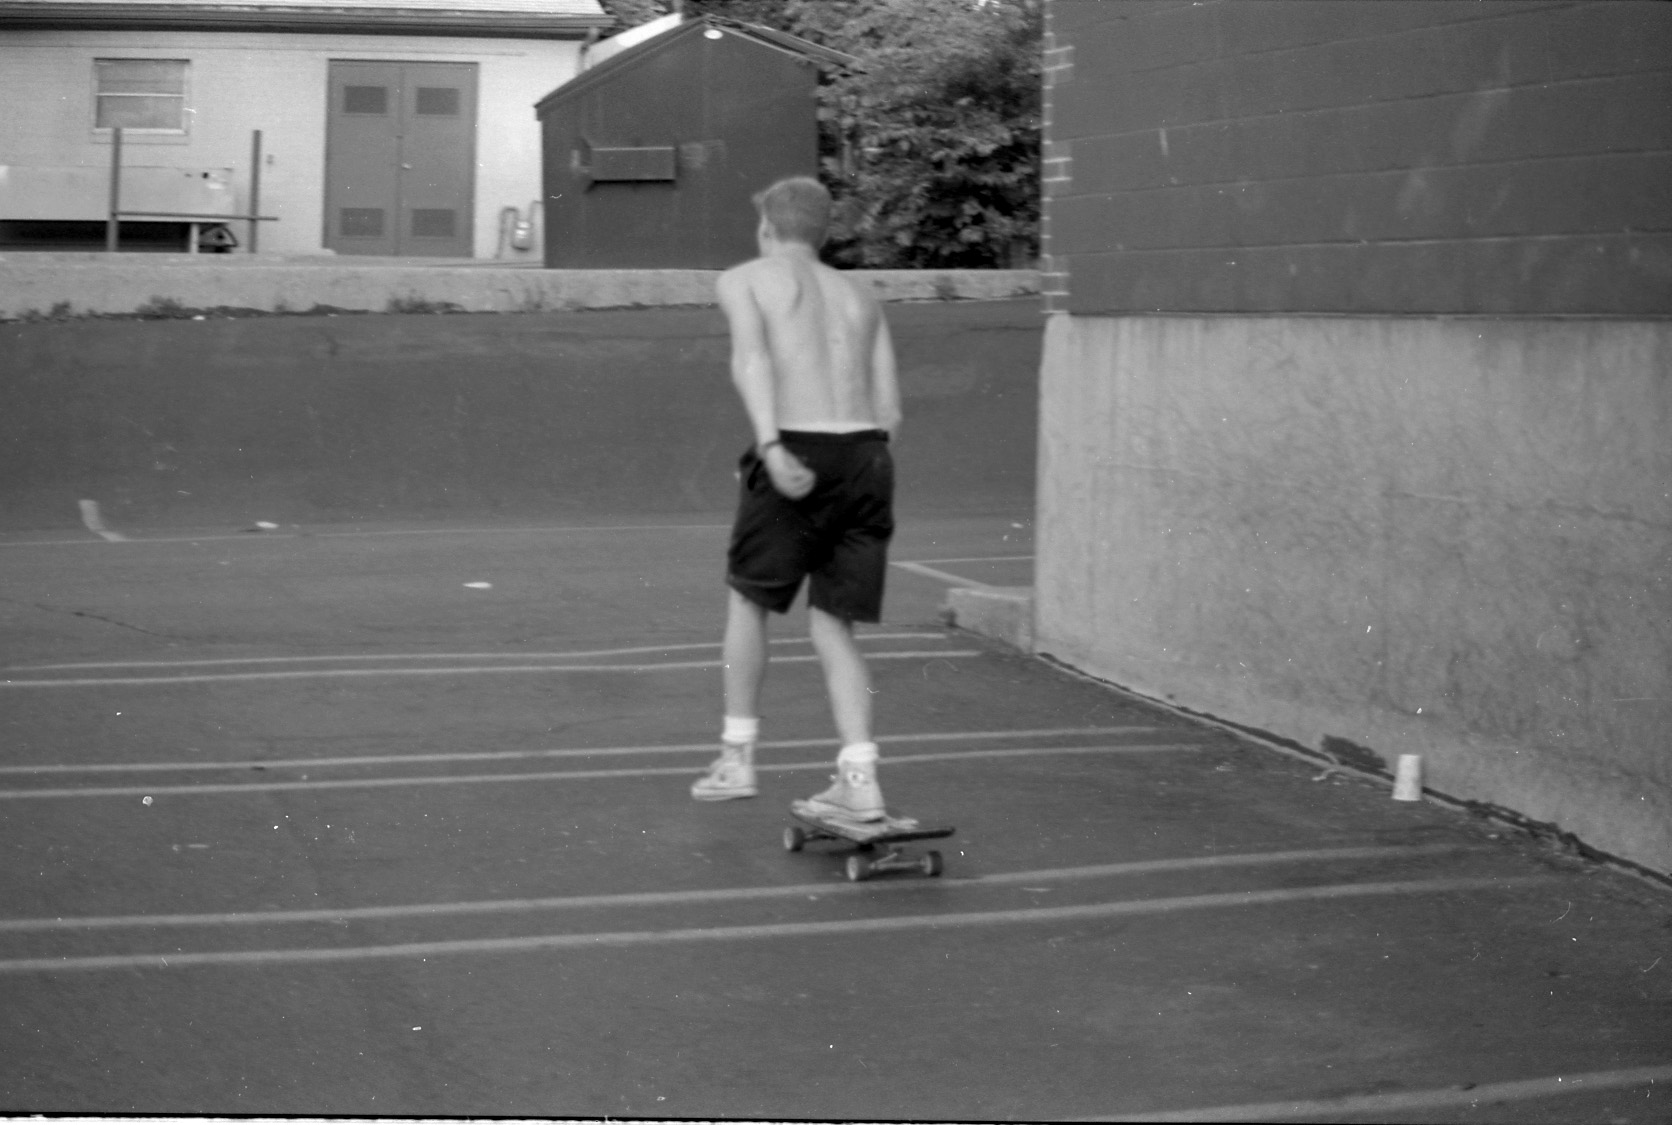
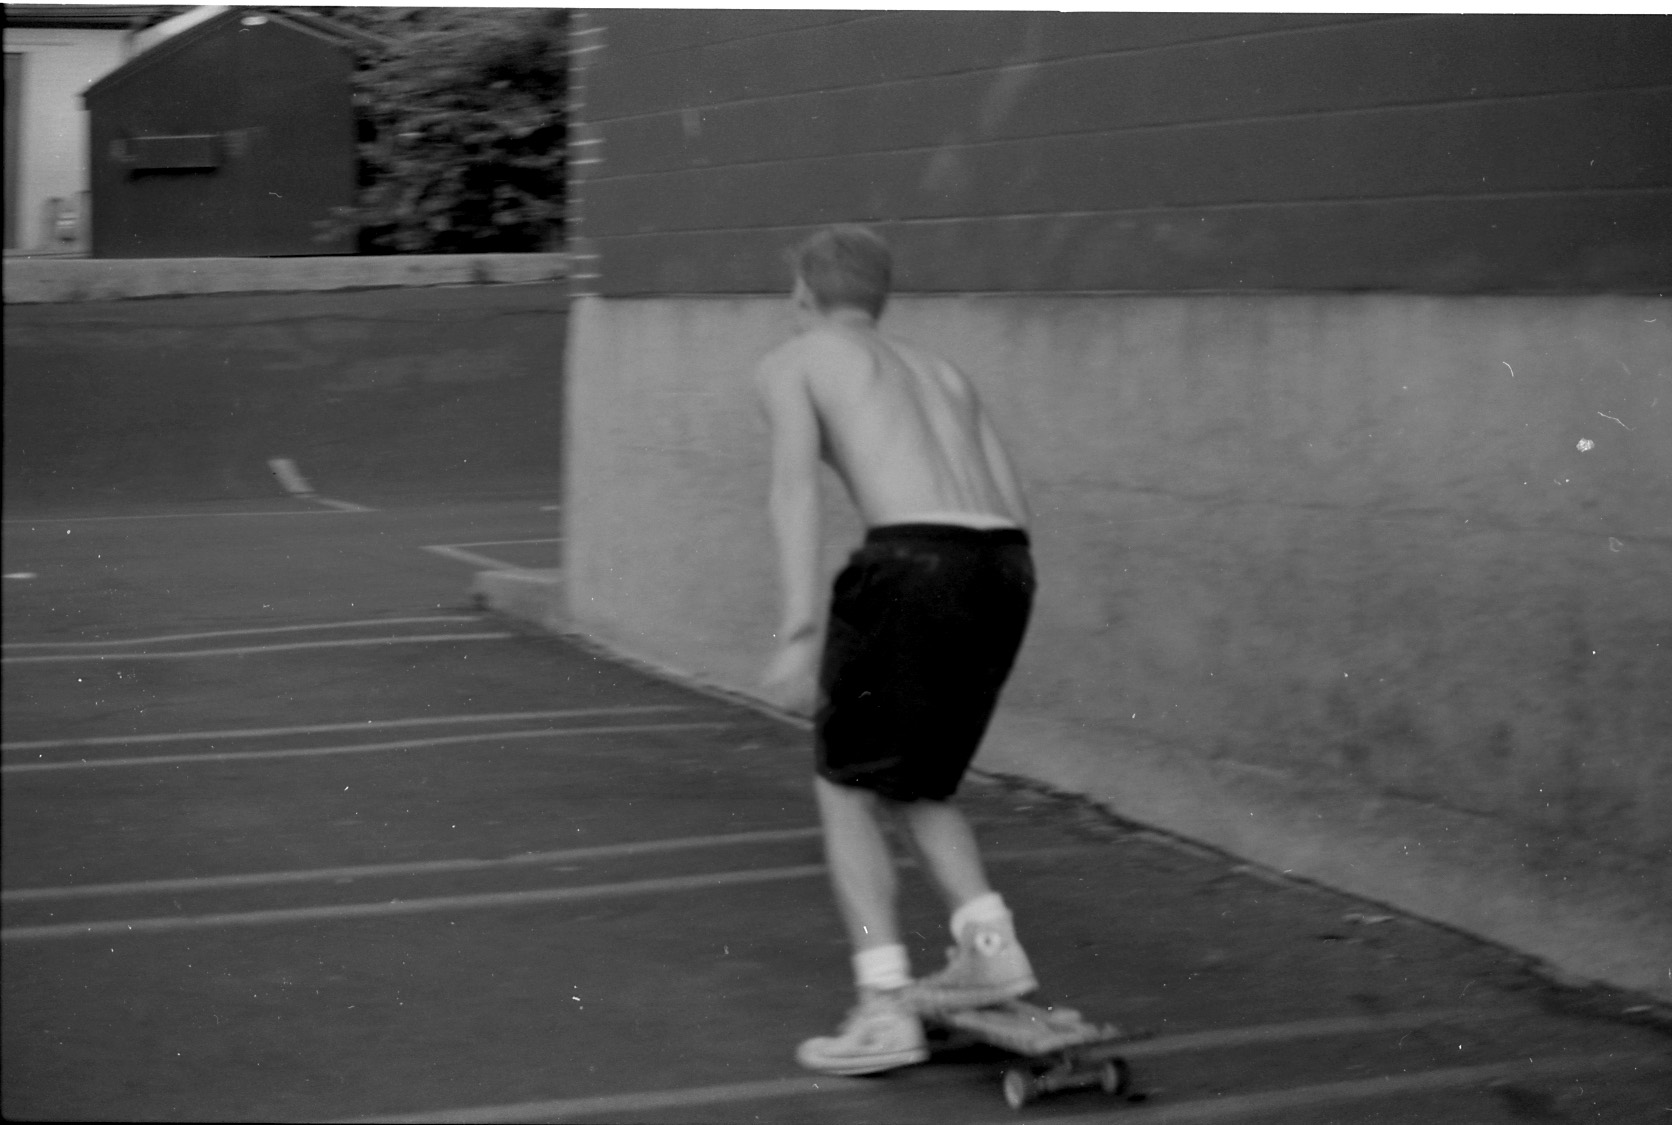
proto 2

diff --git a/examples/test_fs.html b/examples/test_fs.html
@@ -47,7 +47,7 @@
 		Duis aute irure dolor in reprehenderit in voluptate velit esse cillum dolore eu
 		fugiat nulla pariatur. Excepteur sint occaecat cupidatat non proident, sunt in
 		culpa qui officia deserunt mollit anim id est laborum.</p>
-		<figure><canvas></canvas><figcaption>Photo sequence by Giovanni Brignolo</figcaption></figure>
+		<figure><canvas></canvas><figcaption>Photo sequence by Peter Rentz 1987</figcaption></figure>
 		<p>Lorem ipsum dolor sit amet, consectetur adipiscing elit, sed do eiusmod
 			tempor
 			incididunt ut labore et dolore magna aliqua. Ut enim ad minim veniam, quis
@@ -66,7 +66,7 @@
 		const s = Sequencer.make({
 			canvas           : document.querySelector("canvas"),
 			from             : 'pics/schu/schu_001.jpg',
-			to               : 'pics/schu/schu_017.jpg',
+			to               : 'pics/schu/schu_009.jpg',
 			direction        : "x",
 			playMode         : "auto",
 			scaleMode        : "cover",
